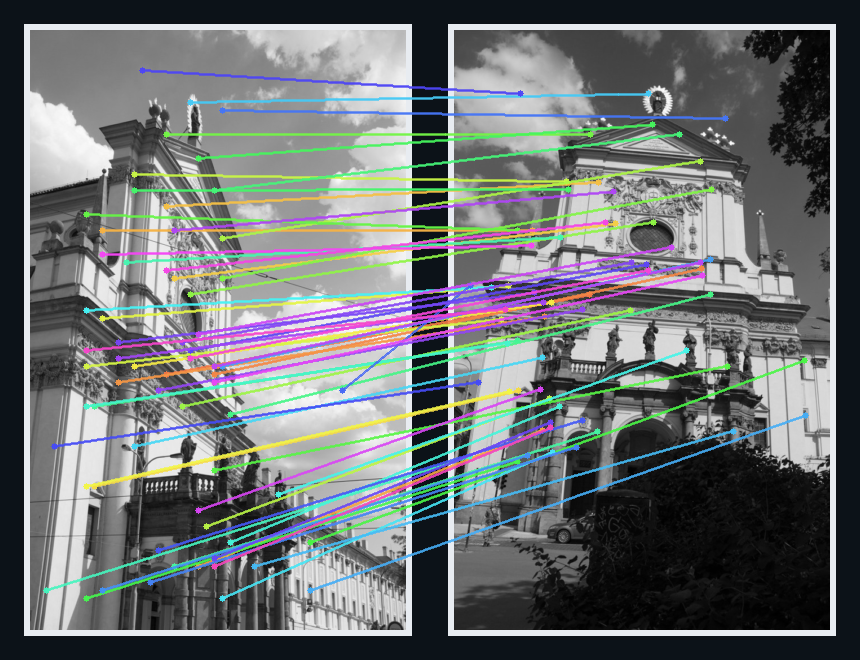
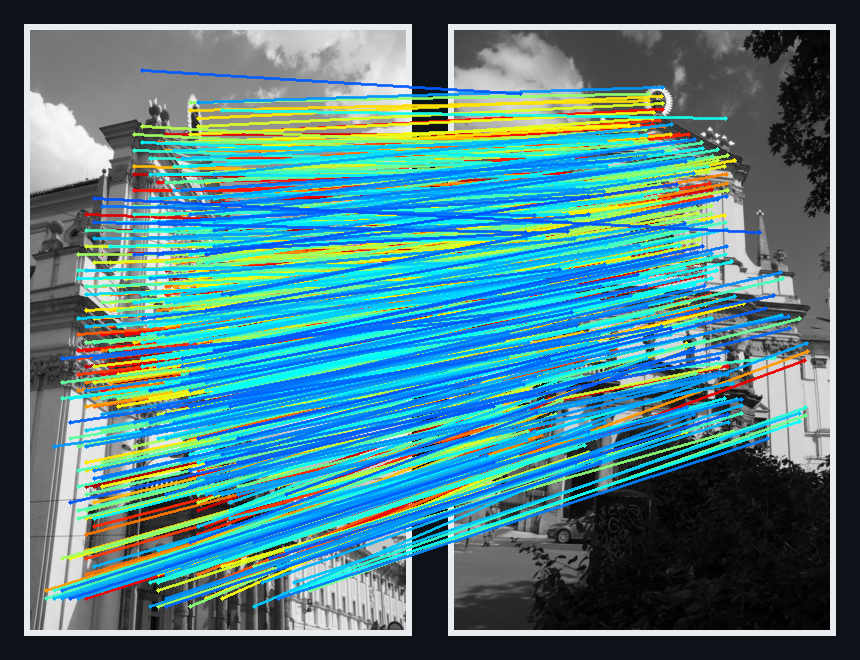
feat: mimic LoFTR demo visualization

diff --git a/crates/loftr/examples/render_demo.rs b/crates/loftr/examples/render_demo.rs
@@ -14,20 +14,37 @@ struct MatchViz {
     confidence: f32,
 }
 
+#[derive(Debug)]
+struct MatchSelection {
+    visible: Vec<MatchViz>,
+    total: usize,
+}
+
 fn main() -> Result<(), Box<dyn Error>> {
     let args: Vec<String> = env::args().collect();
-    if !(args.len() == 5 || args.len() == 6) {
+    if !(args.len() >= 5 && args.len() <= 7) {
         eprintln!(
-            "usage: cargo run -p loftr --example render_demo -- <weights> <left> <right> <output> [max_matches]"
+            "usage: cargo run -p loftr --example render_demo -- <weights> <left> <right> <output> [top_k] [bottom_k]"
         );
         std::process::exit(2);
     }
 
-    let max_matches = args
+    let top_k = args
         .get(5)
         .map(|value| value.parse::<usize>())
         .transpose()?
-        .unwrap_or(96);
+        .unwrap_or(2000);
+    let bottom_k = args
+        .get(6)
+        .map(|value| value.parse::<usize>())
+        .transpose()?
+        .unwrap_or(0);
+
+    if bottom_k > top_k {
+        return Err(
+            format!("bottom_k must be <= top_k; got bottom_k={bottom_k}, top_k={top_k}").into(),
+        );
+    }
 
     let mut model = LoftrModel::new(Device::Cpu, LoftrConfig::outdoor())?;
     model.load_weights(&args[1])?;
@@ -35,20 +52,22 @@ fn main() -> Result<(), Box<dyn Error>> {
     let (left_tensor, left_preview) = load_grayscale(Path::new(&args[2]))?;
     let (right_tensor, right_preview) = load_grayscale(Path::new(&args[3]))?;
     let matches = model.forward(&left_tensor, &right_tensor)?;
-    let selected = select_matches(
-        &matches,
-        left_preview.width(),
-        left_preview.height(),
-        max_matches,
-    )?;
+    let selection = select_matches(&matches, top_k, bottom_k)?;
     render_demo(
         &left_preview,
         &right_preview,
-        &selected,
+        &selection.visible,
         Path::new(&args[4]),
     )?;
 
-    println!("rendered {} matches to {}", selected.len(), args[4]);
+    println!(
+        "rendered {} of {} matches to {} (showing range {}:{})",
+        selection.visible.len(),
+        selection.total,
+        args[4],
+        bottom_k,
+        top_k
+    );
     Ok(())
 }
 
@@ -77,10 +96,9 @@ fn resize_for_loftr(image: DynamicImage) -> DynamicImage {
 
 fn select_matches(
     matches: &LoftrMatches,
-    width: u32,
-    height: u32,
-    max_matches: usize,
-) -> Result<Vec<MatchViz>, Box<dyn Error>> {
+    top_k: usize,
+    bottom_k: usize,
+) -> Result<MatchSelection, Box<dyn Error>> {
     let keypoints0 = tensor_to_points(&matches.keypoints0)?;
     let keypoints1 = tensor_to_points(&matches.keypoints1)?;
     let confidence = Vec::<f32>::try_from(matches.confidence.reshape([-1]))?;
@@ -103,44 +121,11 @@ fn select_matches(
             .unwrap_or(Ordering::Equal)
     });
 
-    let cols = 12usize;
-    let rows = 8usize;
-    let mut occupied = vec![false; cols * rows];
-    let mut used = vec![false; candidates.len()];
-    let mut selected = Vec::with_capacity(max_matches.min(candidates.len()));
-
-    for (index, candidate) in candidates.iter().enumerate() {
-        let cell = grid_index(candidate.start, width, height, cols, rows);
-        if occupied[cell] {
-            continue;
-        }
-        occupied[cell] = true;
-        used[index] = true;
-        selected.push(candidate.clone());
-        if selected.len() == max_matches {
-            return Ok(selected);
-        }
-    }
-
-    for (index, candidate) in candidates.iter().enumerate() {
-        if used[index] {
-            continue;
-        }
-        selected.push(candidate.clone());
-        if selected.len() == max_matches {
-            break;
-        }
-    }
-
-    Ok(selected)
-}
-
-fn grid_index(point: (f32, f32), width: u32, height: u32, cols: usize, rows: usize) -> usize {
-    let x = (point.0 / width as f32).clamp(0.0, 0.999_999);
-    let y = (point.1 / height as f32).clamp(0.0, 0.999_999);
-    let col = (x * cols as f32) as usize;
-    let row = (y * rows as f32) as usize;
-    row * cols + col
+    let total = candidates.len();
+    let end = top_k.min(total);
+    let start = bottom_k.min(end);
+    let visible = candidates[start..end].to_vec();
+    Ok(MatchSelection { visible, total })
 }
 
 fn tensor_to_points(tensor: &Tensor) -> Result<Vec<(f32, f32)>, Box<dyn Error>> {
@@ -186,8 +171,17 @@ fn render_demo(
     blit_grayscale(&mut canvas, left, left_origin);
     blit_grayscale(&mut canvas, right, right_origin);
 
-    for (index, matched) in matches.iter().enumerate() {
-        let color = palette(index, matches.len());
+    let max_confidence = matches
+        .iter()
+        .fold(0.0_f32, |acc, matched| acc.max(matched.confidence));
+
+    for matched in matches {
+        let normalized = if max_confidence > 1e-5 {
+            (matched.confidence / (max_confidence + 1e-5)).clamp(0.0, 1.0)
+        } else {
+            0.0
+        };
+        let color = jet_color(normalized);
         let start = (
             left_origin.0 as f32 + matched.start.0,
             left_origin.1 as f32 + matched.start.1,
@@ -196,22 +190,22 @@ fn render_demo(
             right_origin.0 as f32 + matched.end.0,
             right_origin.1 as f32 + matched.end.1,
         );
-        draw_line(&mut canvas, start, end, color, 0.68);
+        draw_line(&mut canvas, start, end, color, 0.8);
         draw_disc(
             &mut canvas,
             start.0.round() as i32,
             start.1.round() as i32,
-            3,
+            2,
             color,
-            0.95,
+            1.0,
         );
         draw_disc(
             &mut canvas,
             end.0.round() as i32,
             end.1.round() as i32,
-            3,
+            2,
             color,
-            0.95,
+            1.0,
         );
     }
 
@@ -240,30 +234,16 @@ fn blit_grayscale(canvas: &mut RgbImage, image: &GrayImage, origin: (u32, u32)) 
     }
 }
 
-fn palette(index: usize, count: usize) -> Rgb<u8> {
-    let hue = 0.05 + 0.85 * (index as f32 / count.max(1) as f32);
-    let (red, green, blue) = hsv_to_rgb(hue.fract(), 0.72, 0.96);
+fn jet_color(value: f32) -> Rgb<u8> {
+    let x = value.clamp(0.0, 1.0);
+    let red = (1.5 - (4.0 * x - 3.0).abs()).clamp(0.0, 1.0);
+    let green = (1.5 - (4.0 * x - 2.0).abs()).clamp(0.0, 1.0);
+    let blue = (1.5 - (4.0 * x - 1.0).abs()).clamp(0.0, 1.0);
     Rgb([
         (red * 255.0).round() as u8,
         (green * 255.0).round() as u8,
         (blue * 255.0).round() as u8,
     ])
-}
-
-fn hsv_to_rgb(hue: f32, saturation: f32, value: f32) -> (f32, f32, f32) {
-    let chroma = value * saturation;
-    let scaled = hue * 6.0;
-    let x = chroma * (1.0 - ((scaled % 2.0) - 1.0).abs());
-    let (red, green, blue) = match scaled as i32 {
-        0 => (chroma, x, 0.0),
-        1 => (x, chroma, 0.0),
-        2 => (0.0, chroma, x),
-        3 => (0.0, x, chroma),
-        4 => (x, 0.0, chroma),
-        _ => (chroma, 0.0, x),
-    };
-    let match_value = value - chroma;
-    (red + match_value, green + match_value, blue + match_value)
 }
 
 fn draw_line(

diff --git a/README.md b/README.md
@@ -20,7 +20,8 @@ The left image is the original Kornia LoFTR application demo from the
 The right image is generated locally with the Rust visualizer example in this repo, using the same
 `kn_church-2.jpg` and `kn_church-8.jpg` pair that Kornia uses in its LoFTR tutorial. Kornia resizes
 that pair to `600x375` (`H x W`); the current native port rounds the width up to `376` to keep the
-fine-matching scale integral:
+fine-matching scale integral. The visualizer uses a confidence-colored top-k rendering similar to
+the original LoFTR demo:
 
 ```bash
 curl -L -o /tmp/kn_church-2.jpg https://github.com/kornia/data/raw/main/matching/kn_church-2.jpg
@@ -29,8 +30,7 @@ cargo run -p loftr --example render_demo --features download-libtorch -- \
   /path/to/loftr_outdoor_state_dict.safetensors \
   /tmp/kn_church-2.jpg \
   /tmp/kn_church-8.jpg \
-  docs/images/loftr-rs-demo-rust.png \
-  64
+  docs/images/loftr-rs-demo-rust.png
 ```
 
 ## Current Scope
